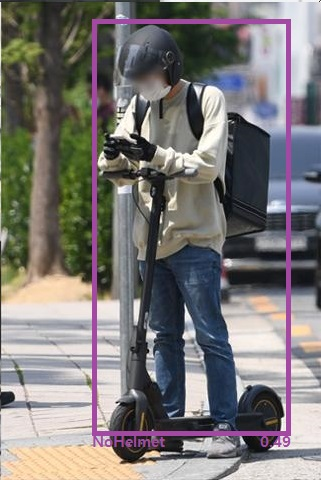
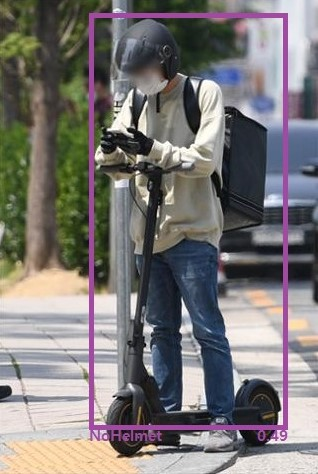
conclusion.css 수정, 사진 크기 비율 수정

diff --git a/src/main/webapp/resource/css/conclusion.css b/src/main/webapp/resource/css/conclusion.css
@@ -1,4 +1,6 @@
-@import url("https://fonts.googleapis.com/css?family=DM+Sans:400,500,700&display=swap");
+@import
+	url("https://fonts.googleapis.com/css?family=DM+Sans:400,500,700&display=swap")
+	;
 
 * {
 	box-sizing: border-box;
@@ -274,45 +276,112 @@ button, a {
 	color: var(--link-color-active);
 }
 
-.form-group {
-    display: flex;
-    flex-direction: column;
-    align-items: flex-start;
-    width: 95%;
-    margin-bottom: 15px;
+/* 전체 배경 컬러 (선택사항) */
+.conclusion {
+	background: #fff;
+	border-radius: 16px;
+	padding: 30px 32px;
+	max-width: 440px;
+	margin: 40px auto; /* 중앙 정렬 */
+	box-shadow: 0 2px 12px rgba(60, 75, 220, 0.05);
 }
 
+/* 공통 form-group */
+.form-group {
+	display: flex;
+	flex-direction: column;
+	align-items: flex-start;
+	margin-bottom: 18px;
+}
+
+/* 라벨 */
 .form-group label {
-    margin-bottom: 5px;
-    font-weight: bold;
+	margin-bottom: 7px;
+	font-weight: 600;
+	font-size: 1.05em;
+	color: #2c346d;
+	letter-spacing: 0.5px;
+}
+
+/* 셀렉트박스(result) */
+.conclusion select {
+	width: 30%;
+	min-width: 100px;
+	max-width: 220px;
+	padding: 10px 12px;
+	border: 1.5px solid #000000;
+	border-radius: 7px;
+	background: #fff;
+	font-size: 1em;
+	color: #222;
+	transition: border-color 0.2s, box-shadow 0.2s;
+	outline: none;
+}
+
+.conclusion select:focus {
+	border: 2px solid #000000; 
+	background: #e7edfd;
+}
+
+/* 벌금 인풋 */
+.form-group input[type="text"]#fine {
+	width: 30%;
+	min-width: 100px;
+	max-width: 220px;
+	padding: 10px 12px;
+	border: 1.5px solid #000000;
+	border-radius: 7px;
+	background: #ffffff;
+	font-size: 1em;
+	color: #24292f;
+	transition: border-color 0.2s, box-shadow 0.2s;
+}
+
+.form-group input[type="text"]#fine:focus {
+	border-color: #4c67bb;
+	background: #e7edfd;
+	box-shadow: 0 0 4px #a0b8fa77;
+}
+
+/* 사유 textarea */
+.conclusion textarea {
+	width: 85%;
+	min-width: 180px;
+	max-width: 300px;
+	min-height: 90px;
+	resize: vertical;
+	padding: 10px 12px;
+	border: 1.5px solid #000000;
+	border-radius: 7px;
+	font-size: 1em;
+	background: #ffffff;
+	color: #24292f;
+	transition: border-color 0.2s, box-shadow 0.2s;
+	box-sizing: border-box;
+}
+
+.conclusion textarea:focus {
+	border-color: #7e95ff;
+	background: #e8edff;
+	box-shadow: 0 0 4px #a0b8fa77;
 }
 
 .form-group input[type="submit"] {
-    background-color: #4e4e4e;
-    color: #ffffff; /* 흰색 글씨 */
-    font-size: 15px; /* 크기 약간 증가 */
-    font-weight: bold;
-    padding: 8px 15px;
-    border: none;
-    border-radius: 8px; /* 모서리 둥글게 */
-    cursor: pointer;
-    margin: 0 ;
-    width: fit-content; /* 버튼의 크기를 텍스트에 맞춤 */
-    transition: background-color 0.3s ease;
+	background-color: #4e4e4e;
+	color: #ffffff; /* 흰색 글씨 */
+	font-size: 15px; /* 크기 약간 증가 */
+	font-weight: bold;
+	padding: 8px 15px;
+	border: none;
+	border-radius: 8px; /* 모서리 둥글게 */
+	cursor: pointer;
+	margin: 0;
+	width: fit-content; /* 버튼의 크기를 텍스트에 맞춤 */
+	transition: background-color 0.3s ease;
 }
 
 .form-group input[type="submit"]:hover {
-    background-color: #c0c0c0; /* 마우스 올렸을 때 더 밝은 갈색 */
-}
-
-.conclusion select,
-.conclusion textarea {
-    width: 100%;
-    padding: 10px;
-    border: 1px solid #ccc;
-    border-radius: 5px;
-    transition: all 0.3s ease;
-    box-sizing: border-box; /* 패딩과 테두리를 포함한 너비 계산 */
+	background-color: #c0c0c0; /* 마우스 올렸을 때 더 밝은 회색 */
 }
 
 .projects-section {
@@ -651,27 +720,33 @@ button, a {
 
 .box-content-left {
 	display: flex;
-    justify-content: center;
-    align-items: center;
-    width: 45%;
+	justify-content: center;
+	align-items: center;
+	width: 50%;
 }
 
 .box-content-left img {
-    width: auto;
-    height: 500px;
-    max-width: 90%;
+	display: block;
+	max-width: 550px; /* 가로 최대 550px까지 */
+	max-height: 600px; /* 세로 최대 650px까지 */
+	width: 85%;
+	height: 85%;
+	object-fit: contain; /* 가로/세로 비율 유지하며 안에 맞춤 */
+	border-radius: 12px;
+	box-shadow: 0 2px 12px rgba(60, 75, 220, 0.06);
+	background: #f3f6fd;
 }
 
 .box-content-text {
-    width: 55%;
-    padding-left: 10px;
+	width: 55%;
+	padding-left: 10px;
 }
 
 .project-icon {
-    width: 50%;
-    height: 50%;
-    object-fit: cover;
-    border-radius: 5%;
+	width: 50%;
+	height: 50%;
+	object-fit: cover;
+	border-radius: 5%;
 }
 
 .project-box-wrapper {
